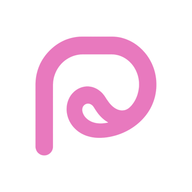
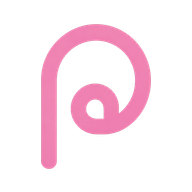
Adopt loop branding and sole operator model (#6)

diff --git a/app/layout.tsx b/app/layout.tsx
@@ -19,7 +19,7 @@ const plexMono = IBM_Plex_Mono({
 const siteUrl = new URL("https://programmable.family");
 const siteDescription = "Launch tokens that work the way you imagine";
 const socialImageUrl = new URL(
-  "/og/programmable-og-1200x630.png",
+  "/og/programmable-loop-og-1200x630.png",
   siteUrl,
 );
 
@@ -73,7 +73,7 @@ export const metadata: Metadata = {
         width: 1200,
         height: 630,
         type: "image/png",
-        alt: "Programmable logo beside a watercolor wildflower meadow",
+        alt: "Programmable loop mark in a watercolor wildflower meadow",
       },
     ],
   },
@@ -85,7 +85,7 @@ export const metadata: Metadata = {
     images: [
       {
         url: socialImageUrl,
-        alt: "Programmable logo beside a watercolor wildflower meadow",
+        alt: "Programmable loop mark in a watercolor wildflower meadow",
       },
     ],
   },

diff --git a/components/site-navigation.tsx b/components/site-navigation.tsx
@@ -37,7 +37,7 @@ export function SiteHeader() {
           <Link className="wordmark" href="/" aria-label="Programmable home">
             <Image
               className="wordmark-logo"
-              src="/icon-512.png"
+              src="/brand/loop/programmable-loop-mark-512.png"
               alt=""
               width={34}
               height={34}

diff --git a/contracts/security/MAINNET-READINESS.md b/contracts/security/MAINNET-READINESS.md
@@ -1,6 +1,6 @@
 # Classic mainnet readiness
 
-Current state: **Sepolia V2 verified; Mainnet V2 monitored; public release blocked by two operational gates**.
+Current state: **Sepolia V2 verified; Mainnet V2 monitored; public release blocked by Privy production billing**.
 
 | Environment | Manifest state | Release meaning |
 | --- | --- | --- |
@@ -49,11 +49,10 @@ The older lifecycle that used the legacy fourth metadata field remains separatel
 
 ## Required before public launch
 
-1. Assign primary and backup incident owners and rehearse the response process with them
-2. Approve Privy billing details and possible MAU overage before upgrading the app from Development
-3. Keep the two-RPC monitor and durable index healthy before enabling public preparation
-4. Complete legal review for platform operation and exclude unsupported securities, RWA and custody claims
-5. Keep the scoped OpenZeppelin 4.9.6 Universal Router SDK override covered by tests. The 2026-07-27 production audit
+1. Approve Privy billing details and possible MAU overage before upgrading the app from Development
+2. Keep the two-RPC monitor and durable index healthy before enabling public preparation
+3. Complete legal review for platform operation and exclude unsupported securities, RWA and custody claims
+4. Keep the scoped OpenZeppelin 4.9.6 Universal Router SDK override covered by tests. The 2026-07-27 production dependency audit
     has zero critical, high or moderate findings; 19 low-severity `ethers` v5/`elliptic` findings remain without a
     compatible upstream fix
 
@@ -65,10 +64,15 @@ noncanonical settlement actions. Incremental index checkpoints remain a scale
 gate before full replay approaches the function-duration budget, not a blocker
 at the current event volume.
 
-## Remaining owner decisions
+## Incident ownership
 
-- Privy billing approval
-- Incident-response and public-communication owners
+`hazarxyz` is the owner-approved sole incident responder, deployment-signer contact, indexer operator and
+public-communication authority. No backup responder is assigned. The owner explicitly accepted that concentration risk;
+the monitor must keep new launch construction disabled whenever the sole operator is unavailable or an alert is open.
+
+## Remaining owner decision
+
+- Privy production billing approval
 
 ## Frontend gate
 
@@ -76,8 +80,8 @@ The public form always normalizes to Classic. The server accepts no target addre
 
 Launch and trading preparation remain disabled while the selected release lacks current lifecycle evidence. Sepolia V2
 preparation is enabled only when the application is explicitly configured for that verified rehearsal environment.
-Mainnet V2 lifecycle evidence and production operations are current. The owner approved the Classic release on July 27,
-2026, but transaction preparation deliberately remains fail-closed pending named incident ownership and Privy
-production billing approval.
+Mainnet V2 lifecycle evidence and production operations are current. The owner approved the Classic release and
+single-operator incident model on July 27, 2026, but transaction preparation deliberately remains fail-closed pending
+Privy production billing approval.
 
 The absence of an external audit leaves additional residual smart-contract risk. Product and release copy must not describe the system or any launched token as audited, safe, unruggable, scam proof or guaranteed compatible with third-party scanners.

diff --git a/TODO.md b/TODO.md
@@ -37,7 +37,7 @@ residual smart-contract risk and must satisfy every internal gate below.
 Sepolia V2 is `ready` with current Test2 lifecycle evidence. Mainnet V2 is deployed, source-verified and backed by a
 complete independently reconciled canary lifecycle, while its V1 deployment remains historical only. Authenticated
 dual-RPC operations, a private durable index snapshot and five-minute monitoring are live. Public preparation remains
-disabled pending named incident ownership, Privy production billing approval and final owner release approval.
+disabled pending Privy production billing approval.
 
 ## Remaining work
 
@@ -88,7 +88,7 @@ disabled pending named incident ownership, Privy production billing approval and
 - [x] Rerun the full repository verification suite on the exact release commit and preserve remote CI results
 - [x] Verify the production manifest, official Uniswap dependencies, immutable treasury, hook mask and runtime code hashes
 - [x] Operate live two-RPC event reconciliation with a durable cursor, evidence artifacts and automatic GitHub incident issues
-- [ ] Name primary and backup incident owners and rehearse the response runbook with them
+- [x] Record `hazarxyz` as the owner-approved sole incident responder, signer contact, indexer operator and public-communication authority; no backup responder is assigned by explicit owner choice
 - [x] Keep the immutable treasury at the owner-approved supplied EOA for this release
 - [x] Use the owner-approved `0x2Bb…249E` EOA as deployer with manual wallet signing and no stored private key
 - [x] Keep securities, RWA, custody and guaranteed-safety claims outside the product
@@ -112,7 +112,7 @@ disabled pending named incident ownership, Privy production billing approval and
 - [x] Run one low-value monitored canary launch with buys, sells and both fee claims
 - [ ] Verify the V2 hook factory on Etherscan; hook and launcher are already exact matches
 - [ ] Prepare the Hooklist and routing submissions after the canary creates a real V2 pool
-- [ ] Enable public launch preparation only after the remaining owner gates pass
+- [ ] Enable public launch preparation only after Privy production billing is approved and the final transaction-review rehearsal passes
 - [x] Deploy the verified operations frontend and confirm `programmable.family` points to its production deployment
 
 ## Not in the current scope

diff --git a/contracts/security/MONITORING-AND-INCIDENT-RESPONSE.md b/contracts/security/MONITORING-AND-INCIDENT-RESPONSE.md
@@ -82,8 +82,12 @@ show provisional records as final.
 7. Publish a factual incident note and recovery criteria before re-enabling the release.
 8. Add a regression test and issue a new version if immutable behavior must change.
 
-## Ownership still required
+## Ownership
 
-Before public launch preparation is enabled, assign primary and backup responders, treasury and signer contacts, RPC and
-indexer operators, public communication authority, alert channels and acknowledgement targets. Rehearse the response
-with those owners. Until then, monitoring is live but incident ownership remains an open release gate.
+The owner selected a single-operator model on 2026-07-27. `hazarxyz` is the primary incident responder, treasury and
+deployment-signer contact, RPC and indexer operator, public-communication authority and acknowledgement target.
+Automatic monitor incidents are assigned to that GitHub account.
+
+No backup responder is assigned by explicit owner choice. That is an accepted operational concentration risk, not a
+redundancy claim. New launch construction must remain fail-closed whenever the sole operator is unavailable or an alert
+has not been reconciled through both configured RPCs.

diff --git a/README.md b/README.md
@@ -70,8 +70,10 @@ Provider-backed Privy session recovery, disconnect and reconnect pass on `progra
 client allows the production domain and the Vercel production alias. The Privy app remains in Development because
 upgrading even its free tier requires payment information and accepts possible billing above 500 monthly active users.
 
-The owner approved the Classic release on July 27, 2026. Mainnet launch and trade preparation remains fail-closed
-pending named incident ownership and Privy production billing approval.
+The owner approved the Classic release and the single-operator incident model on July 27, 2026. `hazarxyz` is the
+named incident owner, deployment signer contact, indexer operator and public-communication authority. There is no
+backup responder by explicit owner choice. Mainnet launch and trade preparation remains fail-closed pending Privy
+production billing approval.
 
 ## Local development
 
